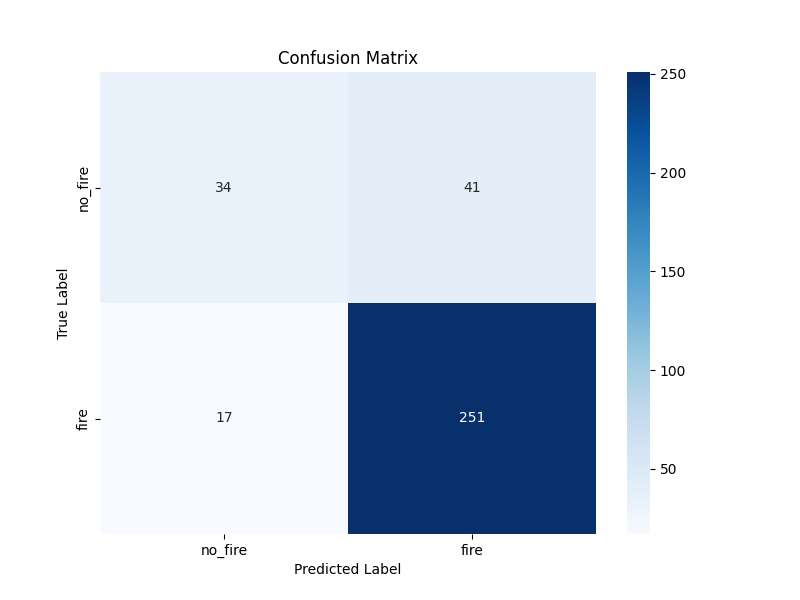
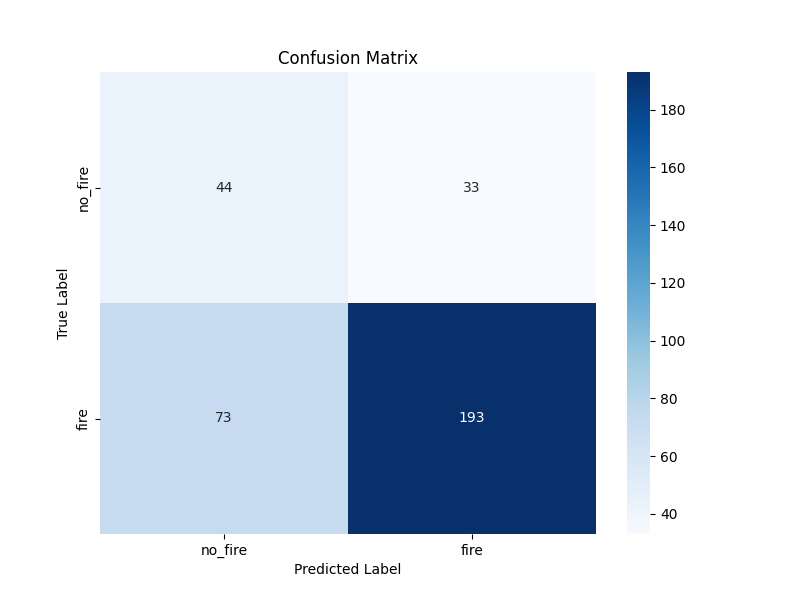
add optimizations

diff --git a/gridsearch.py b/gridsearch.py
@@ -1,0 +1,100 @@
+import numpy as np
+import pandas as pd
+from sklearn.ensemble import RandomForestClassifier
+from sklearn.model_selection import GridSearchCV, train_test_split
+from sklearn.preprocessing import StandardScaler
+from sklearn.metrics import accuracy_score, classification_report
+
+def optimize_random_forest(X, y, test_size=0.2):
+    """
+    Optimize Random Forest classifier with train/test metrics.
+    
+    Parameters:
+    X: Feature matrix with 3 parameters
+    y: Target variable (binary classification)
+    test_size: Proportion of dataset to use for testing
+    
+    Returns:
+    best_model: Optimized Random Forest model
+    scaler: Fitted StandardScaler
+    """
+    # Split data first
+    X_train, X_test, y_train, y_test = train_test_split(
+        X, y, test_size=test_size, random_state=42, stratify=y
+    )
+    
+    # Scale the features
+    scaler = StandardScaler()
+    X_train_scaled = scaler.fit_transform(X_train)
+    X_test_scaled = scaler.transform(X_test)
+    
+    # Parameter grid optimized for large dataset
+    param_grid = {
+        'n_estimators': [100, 200],  # More trees for large dataset
+        'max_depth': [10, 20, None],
+        'min_samples_split': [2, 5],
+        'max_features': ['sqrt']  # Good default for classification
+    }
+    
+    # Create and train model
+    rf = RandomForestClassifier(
+        random_state=42,
+        n_jobs=-1,  # Use all CPU cores
+        class_weight='balanced'  # Handle any class imbalance
+    )
+    
+    grid_search = GridSearchCV(
+        estimator=rf,
+        param_grid=param_grid,
+        cv=5,
+        scoring='accuracy',
+        n_jobs=-1,
+        verbose=1
+    )
+    
+    # Fit the model
+    print("Training model...")
+    grid_search.fit(X_train_scaled, y_train)
+    
+    # Get best model
+    best_model = grid_search.best_estimator_
+    
+    # Print comprehensive results
+    print("\nBest parameters:", grid_search.best_params_)
+    print("Best cross-validation score:", grid_search.best_score_)
+    
+    # Calculate and print train accuracy
+    train_pred = best_model.predict(X_train_scaled)
+    train_accuracy = accuracy_score(y_train, train_pred)
+    print(f"\nTrain Accuracy: {train_accuracy:.4f}")
+    
+    # Calculate and print test accuracy
+    test_pred = best_model.predict(X_test_scaled)
+    test_accuracy = accuracy_score(y_test, test_pred)
+    print(f"Test Accuracy: {test_accuracy:.4f}")
+    
+    # Print feature importance
+    importance = best_model.feature_importances_
+    print("\nFeature Importances:")
+    for i, imp in enumerate(importance):
+        print(f"Feature {i+1}: {imp:.4f}")
+    
+    # Print detailed classification report
+    print("\nClassification Report on Test Set:")
+    print(classification_report(y_test, test_pred))
+    
+    return best_model, scaler
+
+# Example usage
+"""
+# Assuming your data is in X and y
+model, scaler = optimize_random_forest(X, y)
+
+# To make predictions on new data:
+X_new_scaled = scaler.transform(X_new)
+predictions = model.predict(X_new_scaled)
+"""
+data = pd.read_csv('WildFires_DataSet.csv')
+X = data[['NDVI', 'LST', 'BURNED_AREA']]
+y = data['CLASS']
+model, scaler = optimize_random_forest(X, y)
